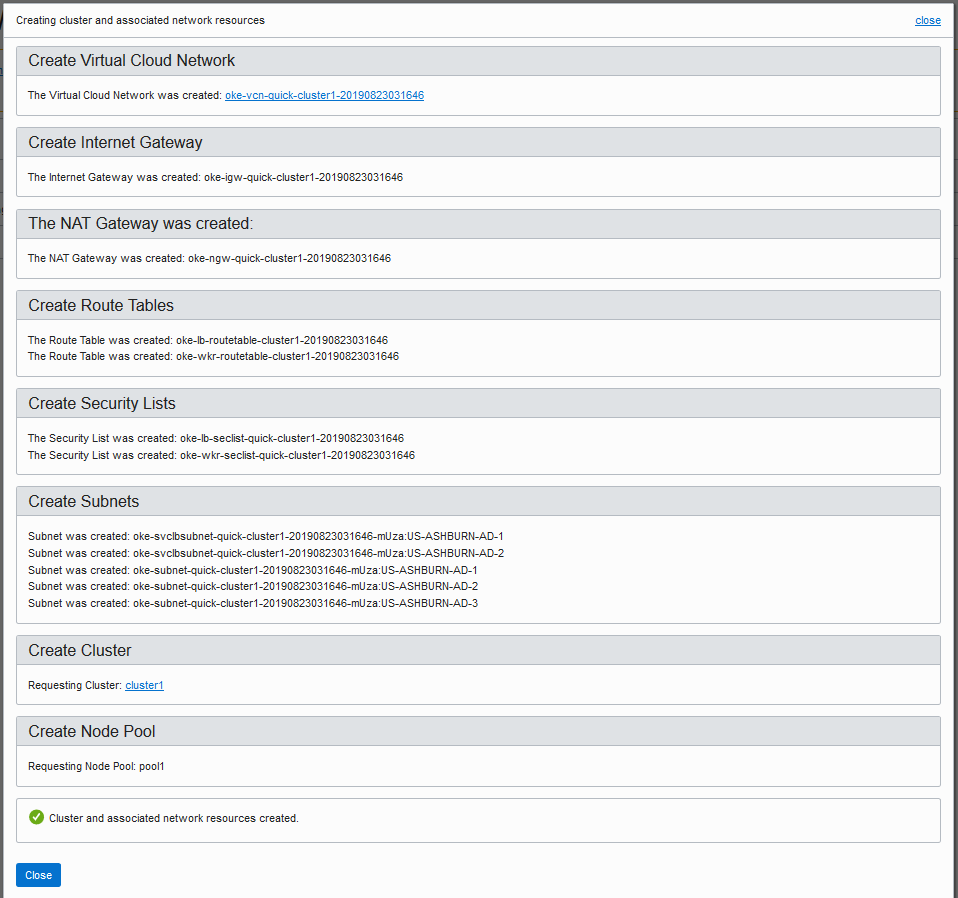
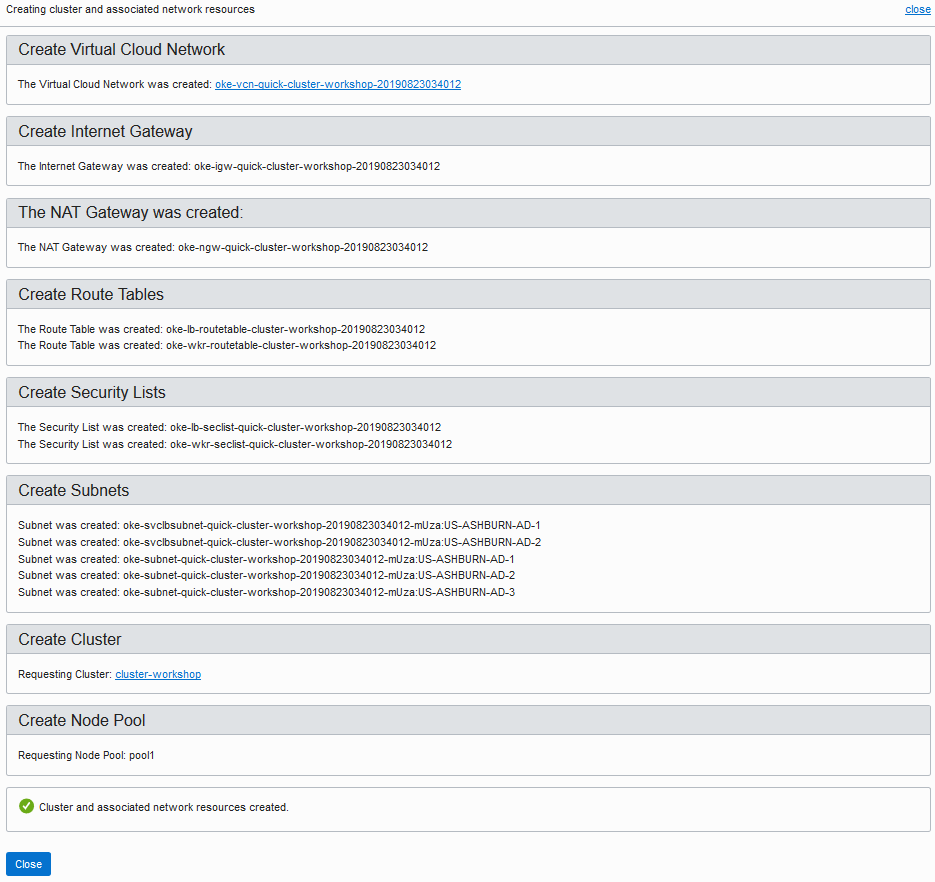
Updates

Changed region(s): [[0.0, 0.0, 1.0, 1.0]]

diff --git a/Lab 200/lab200.md b/Lab 200/lab200.md
@@ -34,8 +34,97 @@ After the network resources are created, you will see the summary bellow. Click 
 
 ![OKE](images/oke06.png)
 
-
+You will be redirected to the Cluster Details page. The creation of the cluster will take some time to finish because a transparent Managed Master Node is provisioned before the Worker Nodes are created.
 
 ![OKE](images/oke07.png)
 
+After the creation is completed succesfully, access the section Getting Started.
+
 ![OKE](images/oke08.png)
+
+You will see some information to start the management and the use of the Kubernetes cluster. Click the **Access Kubeconfig** button.
+
+![OKE](images/oke09.png)
+
+It will open a box with 3 commands:
+
+1. The first creates a directory to export the kubeconfig file.
+2. The second generates the kubeconfig file using the already configured (by Terraform) OCI CLI application. **This command is diferent for every cluster**.
+
+* The third sets the KUBECONFIG environment variable.
+
+Copy the three commands for future use.
+
+![OKE](images/oke10.png)
+
+The cluster is ready to be used, so let's get inside our Bastion Host VM to start manage the cluster.
+
+## Configuring the Bastion Host VM for your OKE Cluster
+
+You will need to connect to your VM and configure the access to your specifc cluster. You will have to tunnel your remote Bastion Host VM and your local machine at port 8001 to manage from localhost your Kubernetes Dashboard.
+
+So, let's do it!
+
+### For Linux/MacOS environments
+
+Open the terminal and type:
+
+    ssh opc@'your_remote_bastion_ip_address' -i 'your_oci_api_key_local_path'/oci_api_key.pem -L 8001:localhost:8001
+
+### For Windows environments
+
+Here you have 2 options:
+
+* Windows PowerShell:
+
+Open the PowerShell terminal and type:
+
+    ssh opc@'your_remote_bastion_ip_address' -i 'your_oci_api_key_local_path'/oci_api_key.pem -L 8001:localhost:8001
+
+* Windows PuTTY:
+  * Session
+    * Host Name (or IP Address): 'your_remote_bastion_ip_address'
+  * Connection
+    * Data
+      * Auto-login username: opc
+  * Connection
+    * SSH
+      * Auth
+        * Private key file for authentication: 'your_oci_api_key_local_path'/oci_api_key.ppk
+  * Connection
+    * SSH
+      * Tunnels
+        * Source port: 8001
+        * Destination: localhost:8001
+        * Click the **Add** button
+  * Session
+    * Saved Sessions: OKE Workshop
+  * Click the **Save** button
+  * Click the **Open** button
+
+After you connect to your Bastion Host VM, run the following commands:
+
+    oci setup repair-file-permissions --file /home/opc/.oci/oci_api_key.pem
+
+![PuTTY](images/putty01.png)
+
+Now you are ready to run the commands of the "Getting Started" session of the Cluster Details page and, after that, run the following commands
+
+    cat ~/.kube/config | grep token && cat ~/.kube/config | grep server
+    kubectl proxy
+
+![PuTTY](images/putty02.png)
+
+and access the Kubernetes from your local browser through the localhost address:
+
+<http://localhost:8001/api/v1/namespaces/kube-system/services/https:kubernetes-dashboard:/proxy/>
+
+You must select the Token option and paste the token you can get from the shell terminal.
+
+![PuTTY](images/dash01.png)
+
+You are logged in the Kubernetes Dashboard!
+
+![PuTTY](images/dash02.png)
+
+Now you can much easily follow the steps of [Container Native Development Workshop](https://oracle.github.io/learning-library/workshops/container-native-development/?version=Virtual+Box&page=LabGuide100.md) that is partially translated (with some more explanations) on [this manual](https://www.manula.com/manuals/hoshikawa-cristiano/devops-containers/1/pt/topic/devops-com-oracle-container-pipelines)
